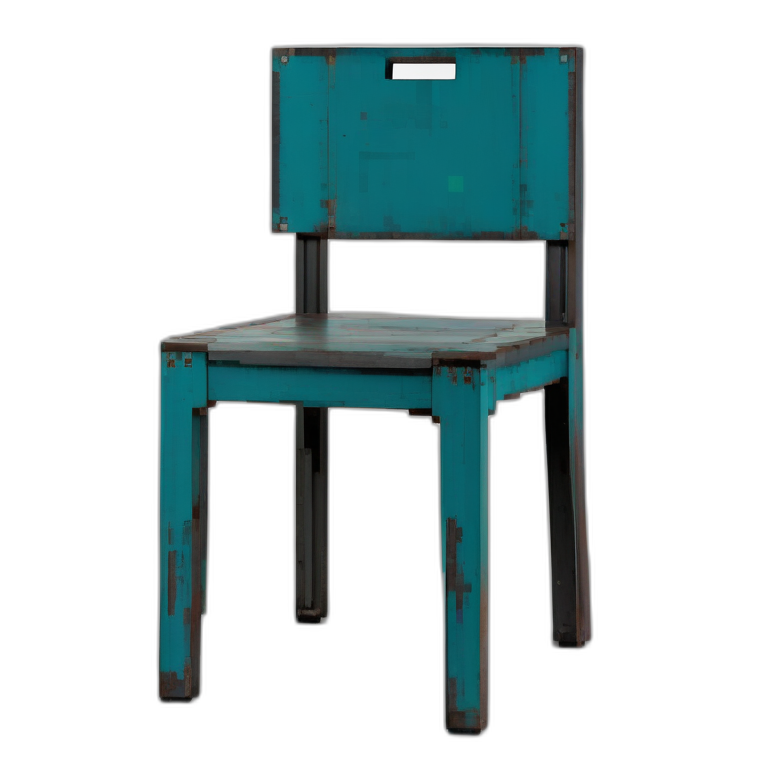
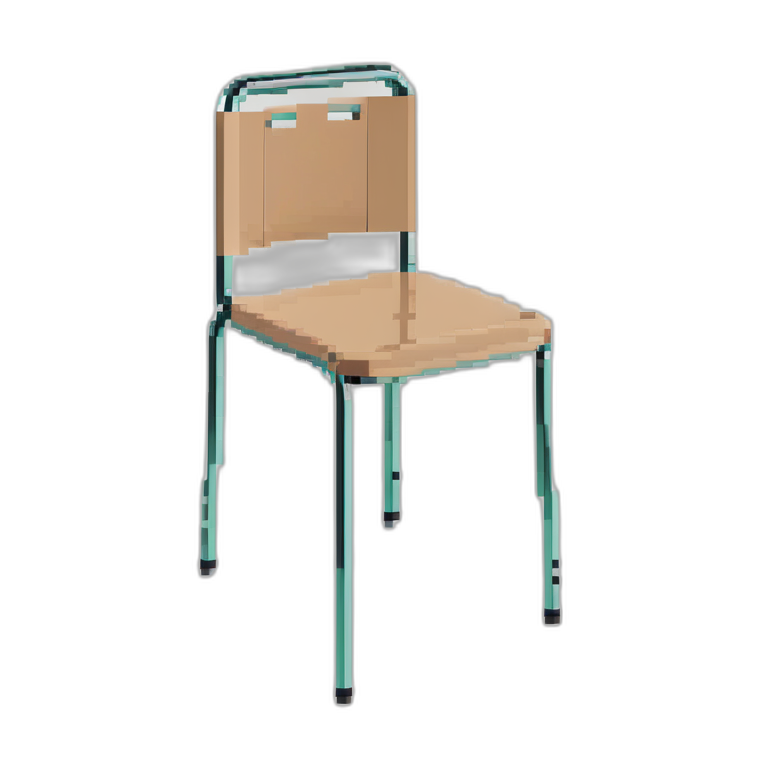
Install his two picks: Chair 2 for the mess chair, Alpha A for the boss
Both were tapped in the relay picker on 2026-08-20. Chair 2 REPLACES the p8
seed 1002 that PR #54 already merged -- that was an agent's curation, this is
his, and his wins.

Finding Chair 2's source was the real work. The picker only ever showed a 512px
preview with the floor baked in (RGB, no alpha, corner (99,82,63) = Tile.Floor),
and the agent that made it died without recording a seed. No recovery fallback
was needed: the preview turned out to be an exact 8x nearest upscale of a 64px
image, ComfyUI's job history pins the only chair renders in the window to
juggernautXL seeds 1000-1011 (never anything-xl), and matching the recovered
64px back against all twelve candidates puts seed 1006 first on every metric --
confirmed by eye, since the tapped chair has a solid rounded-top back panel
where the runner-up has visible slats.

seed 1006 needed equalize=0.90: its value histogram is narrower than the p8
render's, so one ramp level collapsed at 32px and palette_n came in at 8 against
the cast floor of 9. Spreading across the same ramp buys the level back without
touching the hue.

The Alpha is promoted by manifest keys alone -- characterSet() already tries an
archetype's own art before the set it borrows -- so CHARSET_ALIAS_BASE.boss
stays 'thug' as the fallback for packs that ship no Alpha art, and
ARCHETYPE_SCALE.boss stays 1.5, which is the only size lever there is now that
post.sprite normalises every sprite onto one 48x48 canvas. The four bespoke
[…]

diff --git a/src/render/art.ts b/src/render/art.ts
@@ -162,12 +162,17 @@ export interface ArtPalette {
 /**
  * Per-archetype sprite BULK — a multiplier on the drawn billboard only.
  *
- * The Mireclaw Alpha borrows the thug's directional set (see CHARSET_ALIAS
- * below) and was therefore PIXEL-IDENTICAL to the commonest enemy in the game:
- * same body, same palette, same size. Until it gets its own art (see
- * docs/assets/boss-art-brief.md) this is the cheap half of the fix — an Alpha
- * that is half again the size of its own brood reads as a different creature at
- * a glance, and the size difference survives whatever art lands later.
+ * The Mireclaw Alpha USED TO borrow the thug's directional set (see
+ * CHARSET_ALIAS below) and was therefore PIXEL-IDENTICAL to the commonest enemy
+ * in the game: same body, same palette, same size. It now has art of its own — a
+ * violet armoured crab, see docs/assets/boss-art-brief.md — which fixes the body
+ * and the palette.
+ *
+ * This stays at 1.5 anyway, and that is deliberate, not a leftover. It is the
+ * ONLY size lever there is: post.sprite normalises every sprite onto one 48x48
+ * canvas, so the Alpha cannot simply be drawn bigger than its brood. An Alpha
+ * half again the size of the creatures it spawns reads as a different creature
+ * at a glance. Do NOT trim this to 'compensate' for the art having landed.
  *
  * Deliberately NOT the collision radius: entity radius stays 0.35 so the boss
  * still fits through a one-tile hatch. Its longer claw reach (1.5 vs the bat's
@@ -185,6 +190,13 @@ const CHARSET_ALIAS_BASE: Record<string, string> = {
   gangster: 'gangster',
   bouncer: 'cop',
   thug: 'thug',
+  // FALLBACK ONLY, and it must stay. The pack now ships char.boss.* files, and
+  // characterSet() below tries sprites.chars[archetype] BEFORE sprites.chars[alias]
+  // — so the Alpha already uses its own set with no change on this line. Pointing
+  // this at 'boss' instead would gain nothing and would cost the graceful
+  // degradation: packs without the Alpha art (city, test) fall back to the thug
+  // body here rather than to a procedural blob. Membership of this map is also
+  // what isCharacterSprite() tests, so the key cannot simply be removed.
   boss: 'thug',
   civilian: 'civilian',
   scientist: 'scientist',

diff --git a/src/ui/releaseNotes/2026-08-20-mireclaw-alpha-own-body.ts b/src/ui/releaseNotes/2026-08-20-mireclaw-alpha-own-body.ts
@@ -1,0 +1,1 @@
+export default 'The Mireclaw Alpha is no longer a big thug'

diff --git a/scripts/assets/install_props.py b/scripts/assets/install_props.py
@@ -95,10 +95,19 @@ CURATED: dict[str, dict] = {
               "#7b8791", "#a2adb4", "#7ecbd2", "#cfe0e2"],
         accent="#46e078", accent_q=0.995,
     ),
-    # The mess chair, off the p8 sweep (the BLOCKY reroll -- see the recipe note
-    # in generate.py). Seed 1002 is the curated pick: it cleared the facing gate
-    # at 0.695 (vs 0.547 for the runner-up), sat in the value band, and stayed
-    # legible at game size.
+    # The mess chair. THE OWNER PICKED THIS ONE, by tapping "Chair 2 -- chunkiest,
+    # tall rounded back, teal frame" in the relay picker on 2026-08-20. It
+    # REPLACES the p8 seed 1002 this branch shipped first: that was an agent's
+    # curation, this is his, and his wins.
+    #
+    # Provenance matters here because the picker only ever showed him a 512px
+    # PREVIEW with the floor baked in -- no alpha, not a usable source. The four
+    # previews were built from the chair-jugg sweep (juggernautXL, seeds
+    # 1000-1011, rendered 21:28-21:53Z, ranked in chair-gen-report.md). "Chair 2"
+    # is that sweep's rank 1, SEED 1006, recovered by matching the preview back
+    # against all twelve candidates on silhouette IoU and per-pixel error, then
+    # confirmed by eye: a SOLID rounded-top back panel, which is what rules out
+    # the slatted-spindle s01004.
     #
     # Hue is SLATE-TEAL, deliberately duller than supply-cabinet's cyan. The
     # recipe asks for "worn dark teal" seat and "dark gunmetal grey" legs, and
@@ -110,13 +119,21 @@ CURATED: dict[str, dict] = {
     # a chair has no light, and a bright speck on the seat is precisely the
     # "white patch on the seat" defect the p8 negatives were written to kill.
     "mess-chair": dict(
-        tag="p8", seed=1002, dst="chair.png",
+        tag="chair-jugg", seed=1006, dst="chair.png",
         # A first, greyer cut of this ramp measured chroma_p90 exactly 70 -- the
         # cast floor, with zero margin, and the weakest in the pack (every other
         # prop scores 84-96). Deepening the mid entries instead of brightening
         # them buys 84 while keeping mean luminance down.
         ramp=["#08080c", "#0e181c", "#153035", "#1c4750", "#245f6b",
               "#2f7d8b", "#4a9dab", "#83b8bf", "#bcd4d8"],
+        # Seed 1006 has a slightly narrower value histogram than the p8 render
+        # this replaced, so at the 32px footprint one ramp level collapsed into
+        # its neighbour and `palette_n` came in at 8 against the cast floor of 9.
+        # Spreading the histogram a little further across the SAME ramp buys the
+        # 9th level back (measured: 8 -> 9) and leaves chroma, value_range and the
+        # hue untouched. Deliberately 0.90, not 1.0: full equalisation also lifts
+        # the hi-res value_range to 0.676 and starts washing the seat pad out.
+        equalize=0.90,
     ),
 }
 

diff --git a/scripts/assets/manifest.py b/scripts/assets/manifest.py
@@ -78,6 +78,19 @@ ANIM_SECTION = {"walk": 4}
 CHAR_FILES = {arch: kind for arch, (kind, *_rest) in G.CHARS.items()}
 CHAR_FILES.update({arch: CHAR_FILES[t] for arch, t in G.CHAR_ALIASES.items()
                    if t in CHAR_FILES and arch in ("gangster",)})
+# The Mireclaw Alpha has its own body now, so it is listed EXPLICITLY rather
+# than through CHAR_ALIASES. It cannot come from the alias update above: that
+# line resolves an alias to the TARGET's files, and CHAR_ALIASES maps
+# boss -> thug, so the Alpha would silently be handed the bog-mutant art again
+# -- the pixel-identical bug ARCHETYPE_SCALE exists to paper over.
+#
+# Same silent-revert hazard as PROP_KEYS below: char.boss.* only reaches the
+# shipped manifest because this table names it, so omitting it here means the
+# next regeneration drops all ten keys and the boss falls back to the thug.
+#
+# Only s-idle and s-step exist; the per-direction BORROW below fills se/e/ne/n
+# from the s art, which is exactly what every other non-player NPC does.
+CHAR_FILES["boss"] = "mireclaw-alpha"
 
 ITEM_KEYS = {  # engine item id -> our themed file (items table key)
     "pistol": "spore-pistol", "bat": "root-club", "knife": "shard-knife",

diff --git a/docs/assets/boss-art-brief.md b/docs/assets/boss-art-brief.md
@@ -1,8 +1,19 @@
 # Art brief — Mireclaw Alpha (`boss`)
 
-**Status: NOT STARTED. Blocked on the ComfyUI custom-node install the owner must approve
-(see `_mycel-results/assets.md`). No sprites were generated by this pass — this is the spec
-for whoever runs the pipeline next.**
+**Status: ART COMPLETE (2026-08-20).**
+
+**The custom-node blocker previously recorded here was STALE and has been struck.**
+`comfyui_ipadapter_plus`, `rembg-comfyui-node` and `comfy-mtb` were installed
+2026-08-08 and verified live on 2026-08-20 against ComfyUI's 942 registered nodes
+(IPAdapter 28, rembg 2, mtb 80). **No owner approval is required.** The referenced
+`_mycel-results/assets.md` is not in this repository.
+
+Note for whoever generates the next creature: **do NOT IPAdapter-anchor a new
+creature on an existing character sprite.** Held-seed A/B at seed 900044 gave
+0 violet pixels at every anchor weight tried versus 141 unanchored — the anchor
+sprites are themselves desaturated, so style transfer faithfully reproduces grey
+and recreates the same-as-the-common-enemy problem the anchor was meant to
+prevent. The roster is already mixed-base, so that consistency risk is overstated.
 
 ## Why it is needed
 
